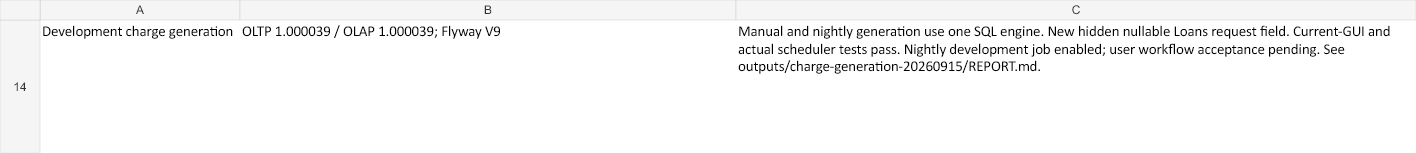
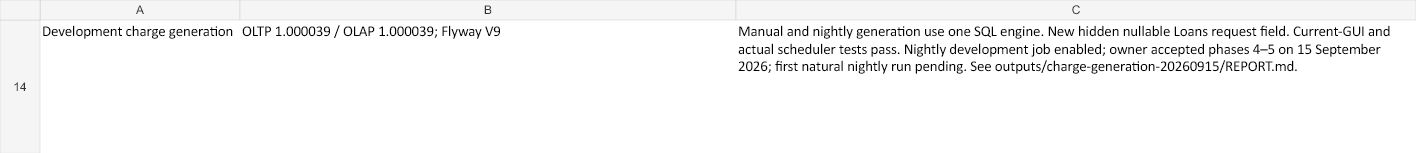
Record accepted charge-generation workflow and successful CI

Changed region(s): [[0.4972, 0.3922, 0.9322, 0.4967], [0.7768, 0.2876, 0.9944, 0.366]]

diff --git a/Documents/AppSheet_Data_Model_Overview.md b/Documents/AppSheet_Data_Model_Overview.md
@@ -18,7 +18,7 @@ SQL owns all six payment methods, allocations, repayment components, Posted stat
 
 **Phases 4–5:** approved nullable `Loans.Charge Generation Request` is hidden Text, no default/backfill/key/Ref. OLTP writes a dated nonce through Generate Today's Charge, with Editable_If FALSE blocking user edits; OLAP is statically read-only. Reporting Loans includes the hidden column and remains READ_ONLY. Existing keys, defaults, formulas, forms/details and references are preserved; generated OLAP View Ref (Ref Target Loan) visibility is now ALWAYS with the same navigation and no edit permission. `manual_charge_generation` calls `charge_generation_request`, then `generate_loan_charge`. `generate_due_charges` uses the same generator for the nightly batch. No charge/repayment grain changed.
 
-The generator retains interval/anchor, daily accrual, fixed-date and installment remainder rules, locks against concurrent payment/generation and skips existing loan/date charges. Manual lock contention fails promptly with a sync/retry message; a bad eligible loan rolls back the nightly batch. Development pg_cron 1.6.7 job `loan-daily-charges` is owner-approved and active at **00:05 Asia/Bangkok**. Session TimeZone stays UTC; SQL derives Bangkok business date explicitly. Cron metadata is not an AppSheet table. Superseded AppSheet generation stays disabled; notification routes are unchanged. Current-GUI manual results (50, 130, 30) and actual scheduler result (20) reconcile; original rows in 14 tables match the pre-task fingerprints. Both-app rollback versions are 1.000036. Owner workflow acceptance and the first natural nightly run remain pending. [Phase 4–5 verification and recovery](../outputs/charge-generation-20260915/REPORT.md).
+The generator retains interval/anchor, daily accrual, fixed-date and installment remainder rules, locks against concurrent payment/generation and skips existing loan/date charges. Manual lock contention fails promptly with a sync/retry message; a bad eligible loan rolls back the nightly batch. Development pg_cron 1.6.7 job `loan-daily-charges` is owner-approved and active at **00:05 Asia/Bangkok**. Session TimeZone stays UTC; SQL derives Bangkok business date explicitly. Cron metadata is not an AppSheet table. Superseded AppSheet generation stays disabled; notification routes are unchanged. Current-GUI manual results (50, 130, 30) and actual scheduler result (20) reconcile; original rows in 14 tables match the pre-task fingerprints. Both-app rollback versions are 1.000036. Owner accepted phases 4–5 on 15 September 2026; the first natural nightly run remains pending. [Phase 4–5 verification and recovery](../outputs/charge-generation-20260915/REPORT.md).
 
 Owner-approved **Loans.Ref Closing Payment** is nullable text in SQL and read-only Ref to **Payments.Row ID** in both apps; it is not a key, label or IsPartOf relationship. It has no default/app formula/backfill and is set only when a SQL payment closes the loan. SQL guards protect it and a partial index supports closure lookups. Generated **Payments.Related Loans** is a read-only List of Ref with `REF_ROWS("Loans", "Ref Closing Payment")`. OLAP **Reporting Loans** slice includes the new field, retaining its filter and read-only permission. Existing manually ordered forms/details remain unchanged. Both apps retain database-3, existing keys and financial calculations; OLAP exposes no financial editing.
 

diff --git a/Change Logs/CHANGE_NOTES_CHARGE_GENERATION_SQL_2026-09-15.md b/Change Logs/CHANGE_NOTES_CHARGE_GENERATION_SQL_2026-09-15.md
@@ -1,6 +1,6 @@
 # Common charge generation and database schedule — phases 4–5
 
-15 September 2026. **Implemented and verified in development; owner workflow acceptance pending.** Owner requested phases 4 and 5, approved the nullable Loans.Charge Generation Request column, and explicitly approved nightly development generation after the scheduled test. Production deployment was not authorized. Default posting and analytics remain phases 6–7, outside this task.
+15 September 2026. **Implemented, verified and owner-accepted in development on 15 September 2026.** Owner requested phases 4 and 5, approved the nullable Loans.Charge Generation Request column, and explicitly approved nightly development generation after the scheduled test. Production deployment was not authorized. Default posting and analytics remain phases 6–7, outside this task.
 
 ## Rollback points
 
@@ -31,6 +31,6 @@ Maintained scripts are in scripts/database and scripts/charge-generation-diction
 
 Pause with Set-DevelopmentChargeSchedule.ps1 -Mode pause-nightly. Preserve charges/refs. Coordinate both-app restore to 1.000036 with SQL review; keep the job paused when restoring old manual generation. V8/V9 are immutable; corrections require V10 or higher. Restore the private backup only into a separate development instance first, reconciling later history. Do not drop the command column or delete financial rows as routine rollback. App restore alone cannot revert SQL. Full hashes and Cloud settings are in the report.
 
-Owner checklist: sync both apps; check daily-interest, fixed and installment due generation; verify one charge per loan/date, auto-off/off-interval skips, component totals and hidden/user-read-only command field. Check the first natural nightly run's cron.job_run_details and generated charges. Workflow acceptance remains pending. Nightly activation was separately approved and completed. Production needs a restorable backup, drift/dependency review and explicit release approval for the exact tested commit/hashes.
+Owner checklist: sync both apps; check daily-interest, fixed and installment due generation; verify one charge per loan/date, auto-off/off-interval skips, component totals and hidden/user-read-only command field. Check the first natural nightly run's cron.job_run_details and generated charges. Owner confirmed: Looks correct — accept phases 4–5. The first natural nightly run remains pending. Nightly activation was separately approved and completed. Production needs a restorable backup, drift/dependency review and explicit release approval for the exact tested commit/hashes.
 
-Relevant checks and staged diff must pass before normal commit/push to master; publication status is reported after push verification. Repository publication alone does not authorize production changes.
+Implementation commit `61857288fbbf7864e7fc56a9909aca7de7a29482` was pushed and matched origin/master. [GitHub migration CI run 10](https://github.com/welct0407/AppSheet-Loan-Project/actions/runs/34979346262) passed in 2m35s; only the existing checkout Node20 deprecation/runtime24 warning remained. Staged whitespace, changed PowerShell syntax and credential-pattern checks passed. The owner then accepted phases 4–5; the follow-up records acceptance in the model/dictionary/report and change log without changing tested SQL or apps. Repository publication alone does not authorize production changes.

diff --git a/outputs/charge-generation-20260915/REPORT.md b/outputs/charge-generation-20260915/REPORT.md
@@ -1,6 +1,6 @@
 # Phases 4–5: common charge generation
 
-15 September 2026. Implemented and verified in development; owner workflow acceptance pending. Production remains Flyway V5 / OLTP 3.000080 / OLAP 1.100055. No production deployment or Looker edit occurred.
+15 September 2026. Implemented, verified and owner-accepted in development on 15 September 2026. Production remains Flyway V5 / OLTP 3.000080 / OLAP 1.100055. No production deployment or Looker edit occurred.
 
 ## Result
 
@@ -53,4 +53,6 @@ Promote only an exact tested commit and migration hashes after a restorable prod
 
 ## Owner check
 
-In development, sync both apps and check a due daily-interest, fixed-date and installment loan: use Generate All Today's Charges where eligible, confirm component totals and one charge per loan/date; verify auto-off/off-interval loans are skipped. The request field should be absent from forms/details and OLAP remain read-only. After the first natural nightly run, check cron.job_run_details and corresponding charges. Owner acceptance of this phase's workflow is still pending; nightly activation itself was explicitly approved.
+Implementation commit `61857288fbbf7864e7fc56a9909aca7de7a29482` was pushed to origin/master. [GitHub Database migrations run 10](https://github.com/welct0407/AppSheet-Loan-Project/actions/runs/34979346262) passed in 2m35s on a fresh Windows runner. Its only annotation was the existing checkout action's Node20 deprecation/runtime24 warning; no test failed. Owner subsequently accepted phases 4–5; this acceptance update changes documentation only, not the tested SQL or app configuration.
+
+In development, sync both apps and check a due daily-interest, fixed-date and installment loan: use Generate All Today's Charges where eligible, confirm component totals and one charge per loan/date; verify auto-off/off-interval loans are skipped. The request field should be absent from forms/details and OLAP remain read-only. After the first natural nightly run, check cron.job_run_details and corresponding charges. Owner confirmed: Looks correct — accept phases 4–5. The first natural nightly run remains pending; nightly activation was explicitly approved.

diff --git a/Documents/Development_Changes.md b/Documents/Development_Changes.md
@@ -27,7 +27,7 @@ The workbook's **Dev Differences** sheet contains the exact current table, busin
 
 ### Common generation — development phases 4–5
 
-Both-app definitions reconciled at 1.000039, rollback 1.000036. V8/V9 implement the common generator and database schedule; four notification-only routes are unchanged. Current-GUI manual charges 50/130/30 and actual scheduler charge20 reconcile; off-interval loan skipped and original rows across14 tables preserved. Owner approved nightly development activation, now active at00:05 Bangkok; overall workflow acceptance and the first natural overnight run remain pending. [Phase4–5 report and rollback](../outputs/charge-generation-20260915/REPORT.md).
+Both-app definitions reconciled at 1.000039, rollback 1.000036. V8/V9 implement the common generator and database schedule; four notification-only routes are unchanged. Current-GUI manual charges 50/130/30 and actual scheduler charge 20 reconcile; the off-interval loan was skipped and original rows across 14 tables preserved. Owner approved nightly development activation, now active at 00:05 Bangkok; owner accepted phases 4–5 on 15 September 2026; the first natural overnight run remains pending. [Phase 4–5 report and rollback](../outputs/charge-generation-20260915/REPORT.md).
 
 ### Interval anchor — promoted 15 September 2026
 
